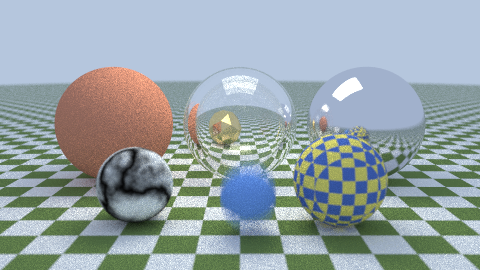
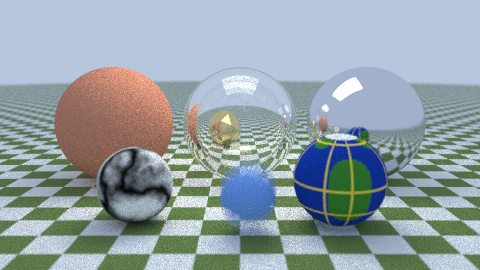
Share the planet texture between render threads: ImageTexture holds a frozen buffer, and the planet is back in the showcase; regenerate the reference and showcase images

Changed region(s): [[0.5938, 0.4741, 0.8125, 0.8593]]

diff --git a/README.md b/README.md
@@ -107,11 +107,6 @@ is. What remains is:
 
 ## What it cannot do yet, and why
 
-- **An image texture cannot be put in a scene**, so the showcase has a checkered ball where the
-  planet would be. The scene is shared between the render threads, so it is built from `&sync`
-  objects. A `&sync` object may not hold a slice or a `Buf`, because neither has an atomic count. That
-  leaves no way to say "pixels decoded once and then read by every thread", short of a lock on every
-  texel or a raw pointer. `ImageTexture` itself works and is tested; only sharing it is blocked.
 - **There is no list of hittables in a scene**, for the same reason. The BVH is a tree of `&sync`
   nodes, so it does not need one. `HitList` exists for the brute-force test, which runs on one thread.
 
